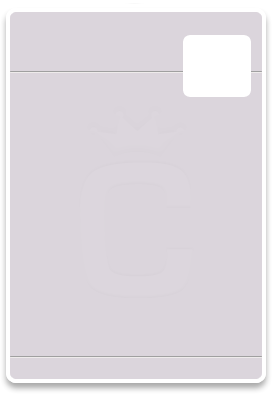
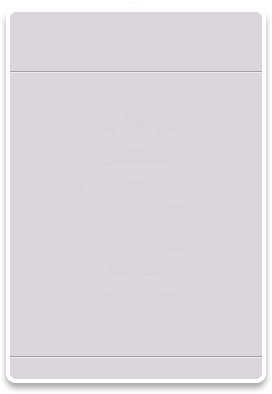
Fixed the profile pic frame

Changed region(s): [[0.6471, 0.0914, 0.9412, 0.2437]]

diff --git a/Classes/Controllers/KZCardsAtPlacesViewController.m b/Classes/Controllers/KZCardsAtPlacesViewController.m
@@ -18,7 +18,7 @@
 
 @implementation KZCardsAtPlacesViewController
 
-@synthesize cardContainer, frontCard, backCard, facebookName, facebookID, profileButton;
+@synthesize cardContainer, frontCard, backCard, facebookName, facebookID, profileImage;
 
 //------------------------------------
 // Init & dealloc
@@ -33,7 +33,7 @@
     
     [facebookName release];
     [facebookID release];
-    [profileButton release];
+    [profileImage release];
     
     [super dealloc];
 }
@@ -57,9 +57,19 @@
 	if ([KZUtils isStringValid:_imagePath])
     {
 		UIImage *_profileImage = [UIImage imageWithContentsOfFile:_imagePath];
+
+        CGPoint _center = self.profileImage.center;
+		CGRect _frame = self.profileImage.frame;
+		_frame.size = _profileImage.size;
+		self.profileImage.frame = _frame;
+        self.profileImage.center = _center;
         
-		[self.profileButton setImage:_profileImage forState:UIControlStateNormal];
-		self.profileButton.layer.cornerRadius = 5.0;
+		self.profileImage.image = _profileImage;
+		
+        self.profileImage.layer.masksToBounds = YES;
+        self.profileImage.layer.cornerRadius = 5.0;
+        self.profileImage.layer.borderWidth = 4.0;
+        self.profileImage.layer.borderColor = [UIColor whiteColor].CGColor;
 	}
 }
 
@@ -69,7 +79,7 @@
     self.backCard = nil;
     self.facebookName = nil;
     self.facebookID = nil;
-    self.profileButton = nil;
+    self.profileImage = nil;
     
     [super viewDidUnload];
 }

diff --git a/Classes/Controllers/KZCardsAtPlacesViewController.h b/Classes/Controllers/KZCardsAtPlacesViewController.h
@@ -24,7 +24,7 @@
 
 @property (nonatomic, retain) IBOutlet UILabel *facebookName;
 @property (nonatomic, retain) IBOutlet UILabel *facebookID;
-@property (nonatomic, retain) IBOutlet UIButton *profileButton;
+@property (nonatomic, retain) IBOutlet UIImageView *profileImage;
 
 - (IBAction) showQRCode:(id)sender;
 - (IBAction) flipCard:(id)sender;
